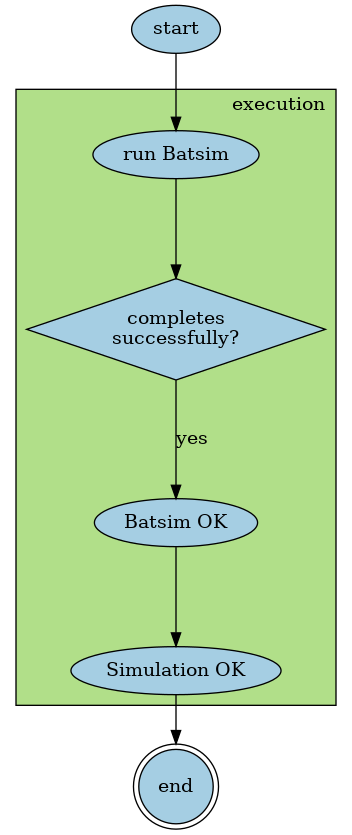
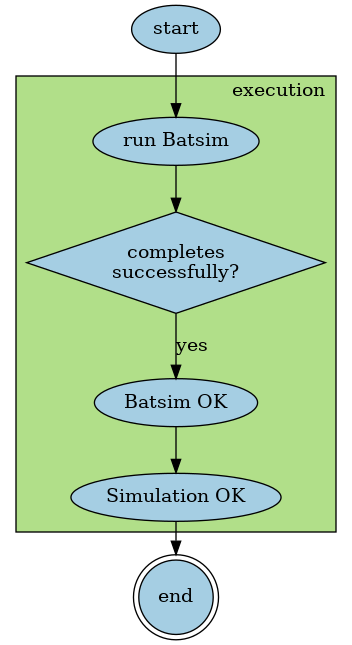
[doc] reduce automata size + readme++

diff --git a/README.md b/README.md
@@ -18,5 +18,6 @@ as many problems may rise:
 The main goal of this script is to facilitate the execution of one single
 simulation instance so it can be seen as a black box with inputs and outputs.
 
-The main idea behind this script is shown on the figure below:  
+## How does it work?
+The main idea behind Robin is shown on the figure below.
 ![robin main idea](doc/automata/smooth2.svg "Robin main idea")
